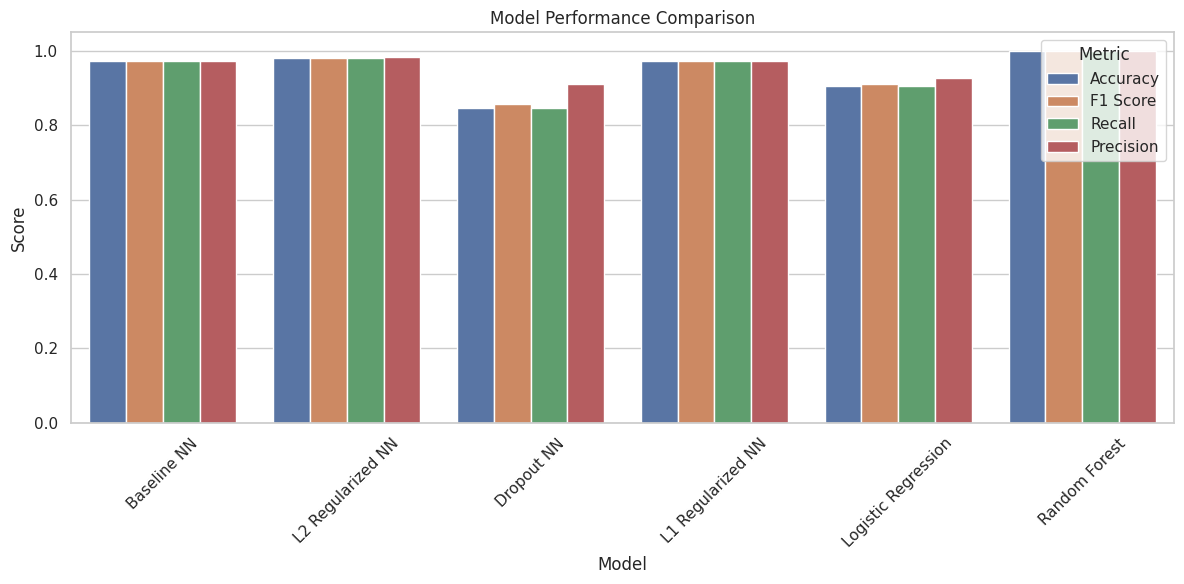
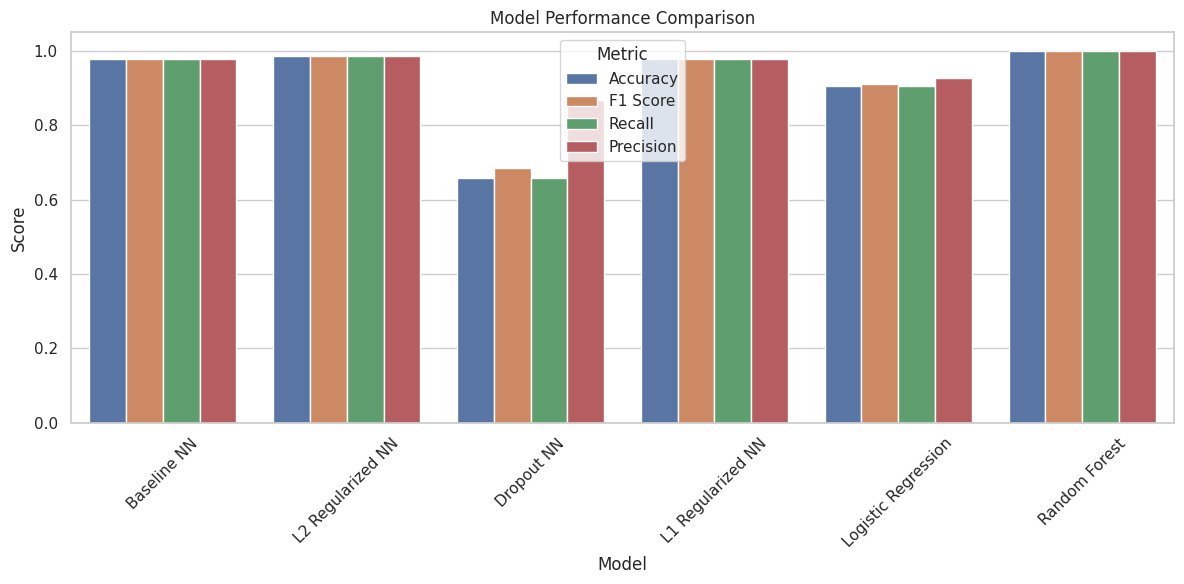
Final

diff --git a/README.md b/README.md
@@ -56,7 +56,7 @@ For a detailed walkthrough of the project and its implementation, check out our 
 - Max 200 epochs
 
 #### Instance 3: Dropout Model
-- Architecture: 3 hidden layers [64, 32, 16]
+- Architecture: 3 hidden layers [128, 64, 32]
 - Optimizer: RMSprop (default learning rate)
 - Dropout rate: 0.2
 - Fixed 70 epochs
